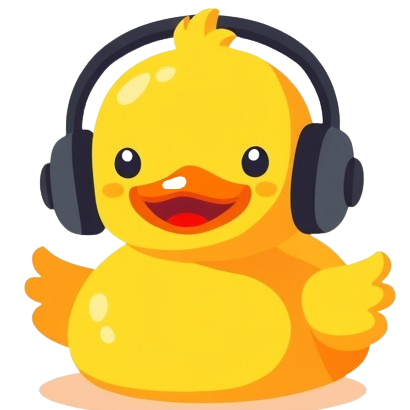
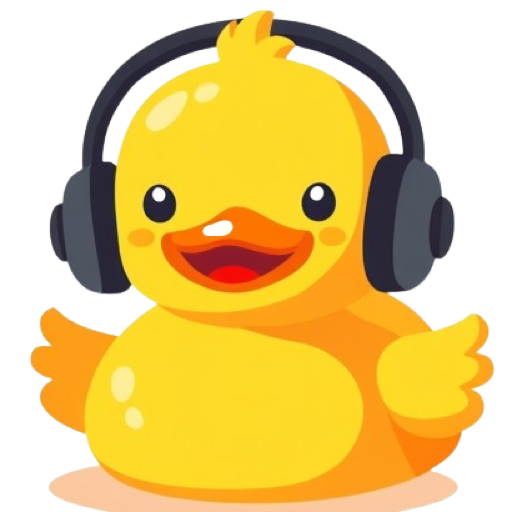
feat: Ajoute un script de préchargement pour l'isolation de contexte et la récupération de vidéos TikTok, met à jour l'icône et l'URL de développement.

diff --git a/overlay/main.js b/overlay/main.js
@@ -1,4 +1,4 @@
-const { app, BrowserWindow, screen, Tray, Menu, nativeImage, globalShortcut } = require('electron');
+const { app, BrowserWindow, screen, Tray, Menu, nativeImage, globalShortcut, ipcMain } = require('electron');
 const path = require('path');
 const fs = require('fs');
 const { execFile } = require('child_process');
@@ -282,6 +282,9 @@ function stopKeepOnTopLoop() {
   }
 }
 
+
+
+
 // -------- WINDOW LIFECYCLE --------
 
 async function createWindowAsync() {
@@ -312,8 +315,9 @@ async function createWindowAsync() {
     hasShadow: false,
     skipTaskbar: true,
     webPreferences: {
-      nodeIntegration: true,
-      contextIsolation: false,
+      nodeIntegration: false,
+      contextIsolation: true,
+      preload: path.join(__dirname, 'preload.js'),
       backgroundThrottling: false,
       webSecurity: false,
       allowRunningInsecureContent: true
@@ -355,7 +359,7 @@ async function createWindowAsync() {
     `);
   });
 
-  mainWindow.loadURL('https://livechat.singesupreme.fr/client?guildId=942211187079282688');
+  mainWindow.loadURL('http://localhost:3333/client?guildId=942211187079282688');
   mainWindow.setIgnoreMouseEvents(true, { forward: true });
 
   mainWindow.once('ready-to-show', () => mainWindow.show());
@@ -366,7 +370,6 @@ async function createWindowAsync() {
     if (tray) updateTrayMenu();
   });
 }
-
 function destroyWindow() {
   stopKeepOnTopLoop();
   if (mainWindow && !mainWindow.isDestroyed()) mainWindow.destroy();

diff --git a/overlay/preload.js b/overlay/preload.js
@@ -1,0 +1,5 @@
+const { contextBridge, ipcRenderer } = require('electron');
+
+contextBridge.exposeInMainWorld('electron', {
+  getTikTokVideoUrl: (url) => ipcRenderer.invoke('get-tiktok-video', url)
+});
